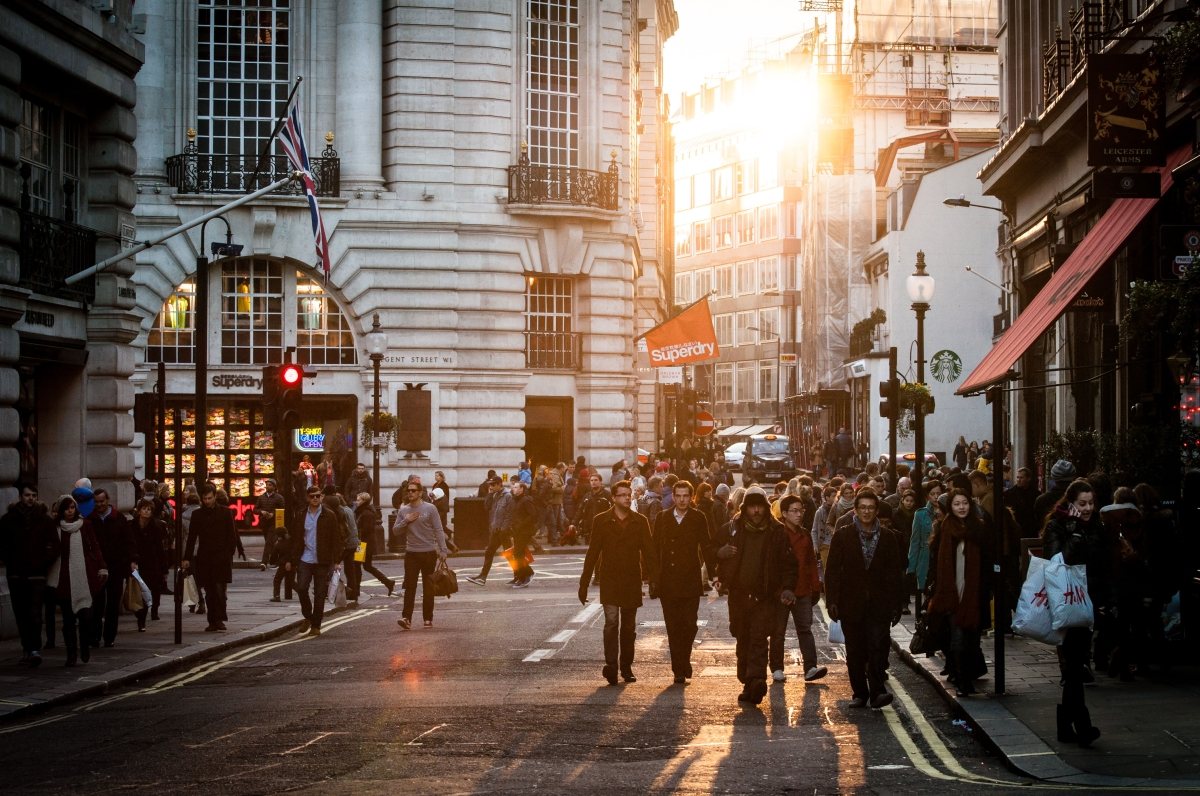
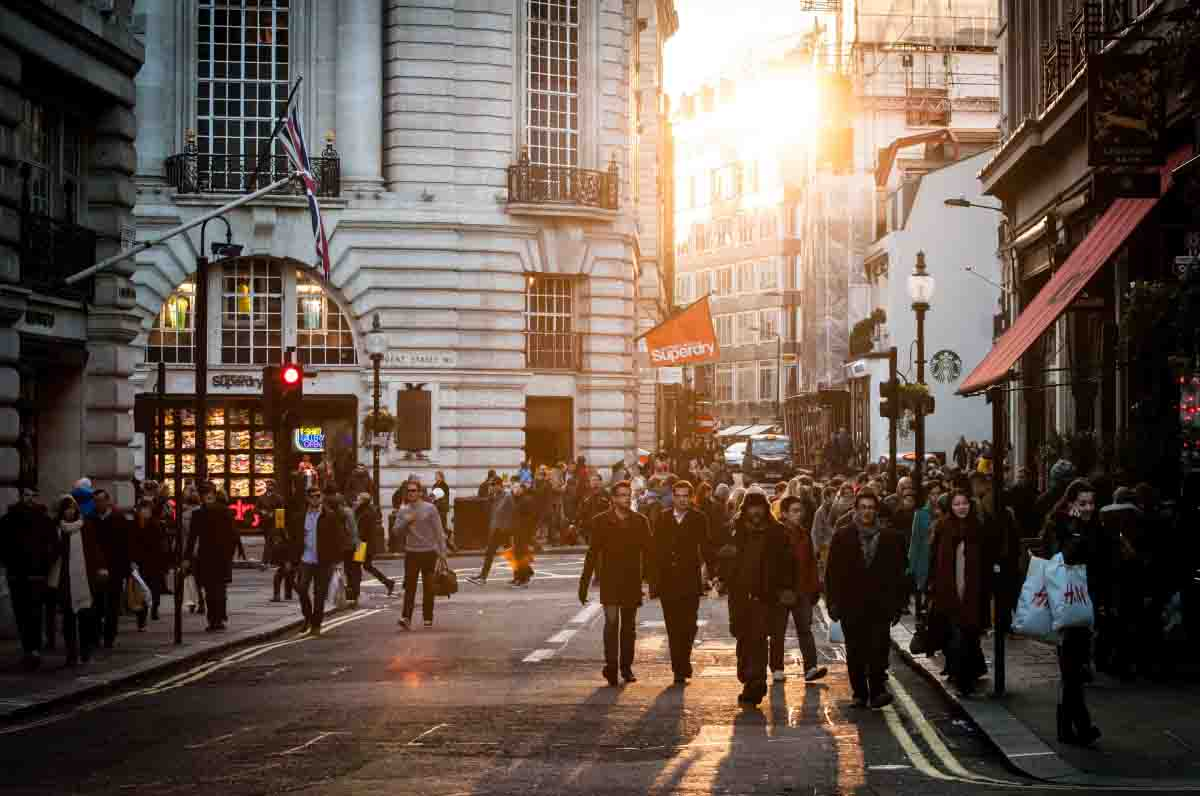
smaller images

diff --git a/assets/js/script.js b/assets/js/script.js
@@ -1,17 +1,4 @@
 $(document).ready(function(){
-
-	/* Gender based background image in profile.html */
-	var gender = $("input[type='radio'][name='gender']:checked").val();
-	if(gender == 'M'){
-		$('html').css({"background":"url('http://localhost:8000/static/login/images/profile-m.jpg') no-repeat center center fixed","background-size":"cover"});
-	}
-	/* end of Gender based background image in profile.html */
-	/*gender css for responsive view*/
-	// console.log($("label[for='id_gender_0']").parent().children().first().next());
-	// $("label[for='id_gender_0']").parent().children().first().next().css({"display":"inline-block !important","width":"33% !important"});
-	$("label[for='id_gender_0']").parent().children().first().next().addClass("first_Gender");
-	/*end*/
-
 	$("#id_categories").addClass("clearfix");
 	
 	if($(window).width() <= 960){

diff --git a/polls/templates/polls/questionDetail.html b/polls/templates/polls/questionDetail.html
@@ -312,12 +312,15 @@ var disqus_config = function() {
 			  {% for voted in question.voted_set.all %}
 			  	{% if voted.user.extendeduser.gender == "M" %}
 			  		m++;
-			  	{% else %}
+			  	{% elif voted.user.extendeduser.gender == "F" %}
 			  		f++;
+			  	{% else %}
+			  		d++;
 			  	{% endif %}
 			  {% endfor %}
 			  genderData.push(['Male',m]);
 			  genderData.push(['Female',f]);
+			  genderData.push(['Not Disclosed',d])
 			  var data = google.visualization.arrayToDataTable(genderData);
 			  var options = {
 			    pieHole: 0.4,

diff --git a/login/templates/socialaccount/snippets/provider_list.html b/login/templates/socialaccount/snippets/provider_list.html
@@ -13,7 +13,7 @@
 {% endif %}
 <p>
   <a title="{{provider.name}}" class="socialaccount_provider {{provider.id}}" 
-     href="{% provider_login_url provider.id process=process scope=scope auth_params=auth_params %}"><img src="/static/login/images/{{provider.name}}.png"></a>
+     href="{% provider_login_url provider.id process=process scope=scope auth_params=auth_params %}"><img src="/static/login/images/{{provider.name|lower}}.png"></a>
 </p>
 {% endfor %}
 

diff --git a/assets/login/css/profile.css b/assets/login/css/profile.css
@@ -1,6 +1,6 @@
 /*Vertical css tabs taken from http://codepen.io/nik-savchenko/pen/xDIAe*/
 html{
-	background:url('/static/login/images/profile-f.jpg') no-repeat center center fixed;
+	background:url('/static/login/images/profile-m.jpg') no-repeat center center fixed;
 	background-size:cover;
 }
 #profile{

diff --git a/login/forms.py b/login/forms.py
@@ -25,7 +25,7 @@ class MySignupForm(forms.Form):
 	image = forms.ImageField(required=False,label='Profile Image')
 	first_name = forms.CharField(max_length=30, label='First Name', widget=forms.TextInput(attrs={'placeholder': 'First Name','autofocus': 'autofocus'}))
 	last_name = forms.CharField(max_length=30, label='Last Name', widget=forms.TextInput(attrs={'placeholder': 'Last Name'}))
-	gender = forms.ChoiceField(choices=[('M','Male'),('F','Female')], label='Gender', widget=forms.RadioSelect(renderer=HorizontalRadioRenderer),)
+	gender = forms.ChoiceField(choices=[('M','Male'),('F','Female'),('D','Do Not Reveal')], label='Gender', widget=forms.RadioSelect(renderer=HorizontalRadioRenderer),)
 	birthDay = forms.DateField(widget=CustomDateInput)
 	bio = forms.CharField( max_length=1024, label="About Me", widget=forms.Textarea(attrs={'placeholder': 'Tell me something about yourself'}),required=False)
 	professionList = ["","Student","Politics","Education","Information Technology","Public Sector","Social Services","Medical","Finance","Manager","Others"]
